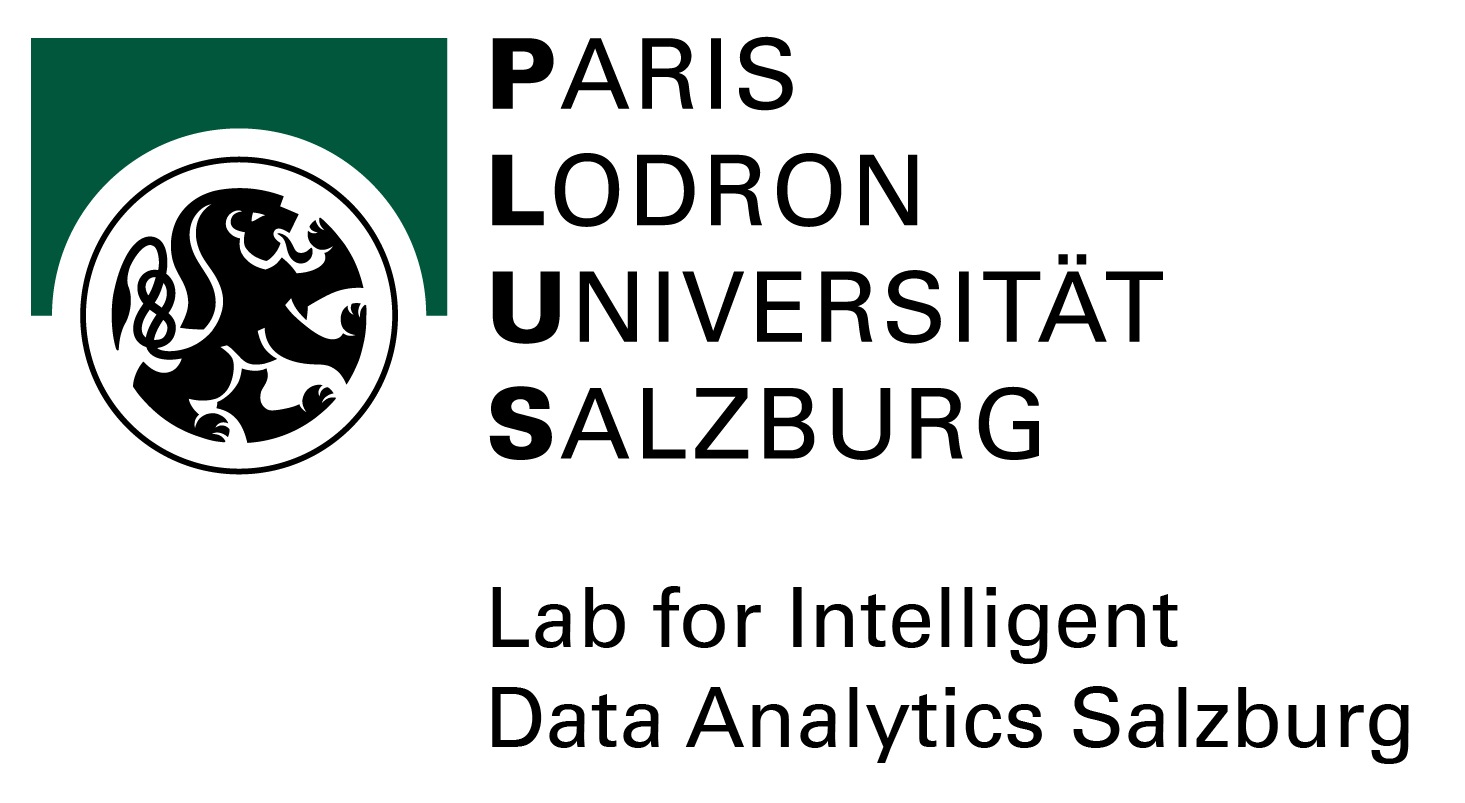
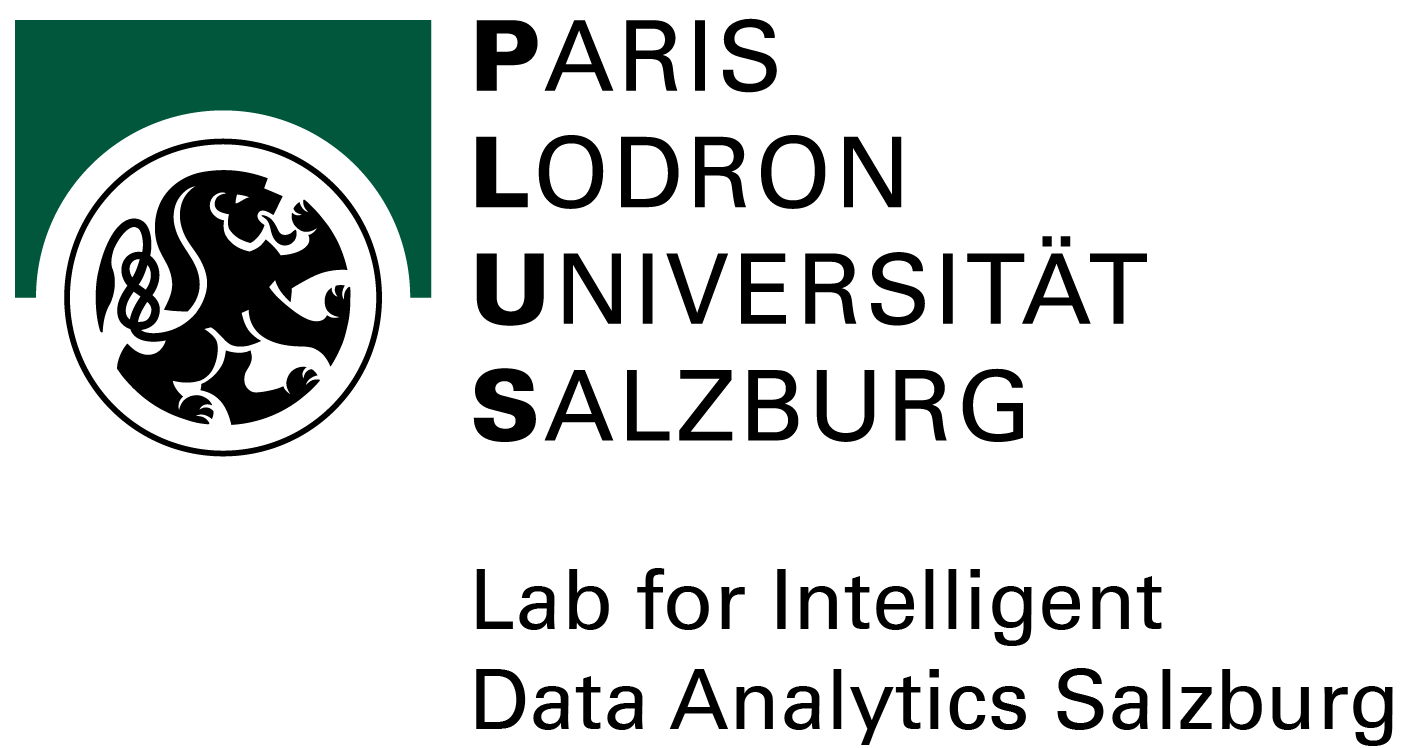
ida lab log

diff --git a/index.html b/index.html
@@ -298,7 +298,7 @@
     </a>
     <a href="https://idalab.at/en/" class="organizer-card" target="_blank">
       <div class="organizer-image">
-        <img src="assets/Lab for Inelligent Data Analytics Salzburg (IDA-Lab)2.png" alt="IDA Lab">
+        <img src="assets/IDA Logo High.png" alt="IDA Lab">
       </div>
       <div class="organizer-info">
         <h3>IDA Lab</h3>
